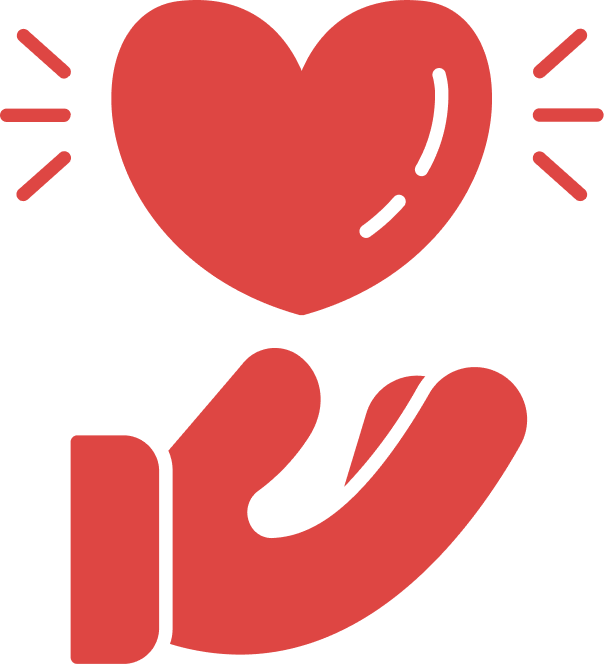
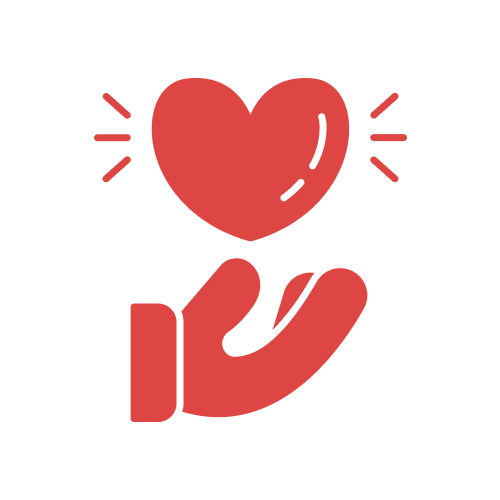
image size

diff --git a/src/components/RecipeListGrid.jsx b/src/components/RecipeListGrid.jsx
@@ -3,7 +3,7 @@ import { useState, useEffect } from "react";
 import "../blocks/recipeListGrid.css";
 import Recipe from "./Recipe";
 import maison from "../assets/images/MaisonBezalel.png";
-import chicagoNews from "../assets/images/chicagoNews.svg";
+import chicagoNews from "../assets/images/chicagoNews.png";
 import parksSparks from "../assets/images/parksSparks.png";
 import helpingHands from "../assets/images/helpingHands.png";
 import communiteeGolf from "../assets/images/communiteeGolf.png";
